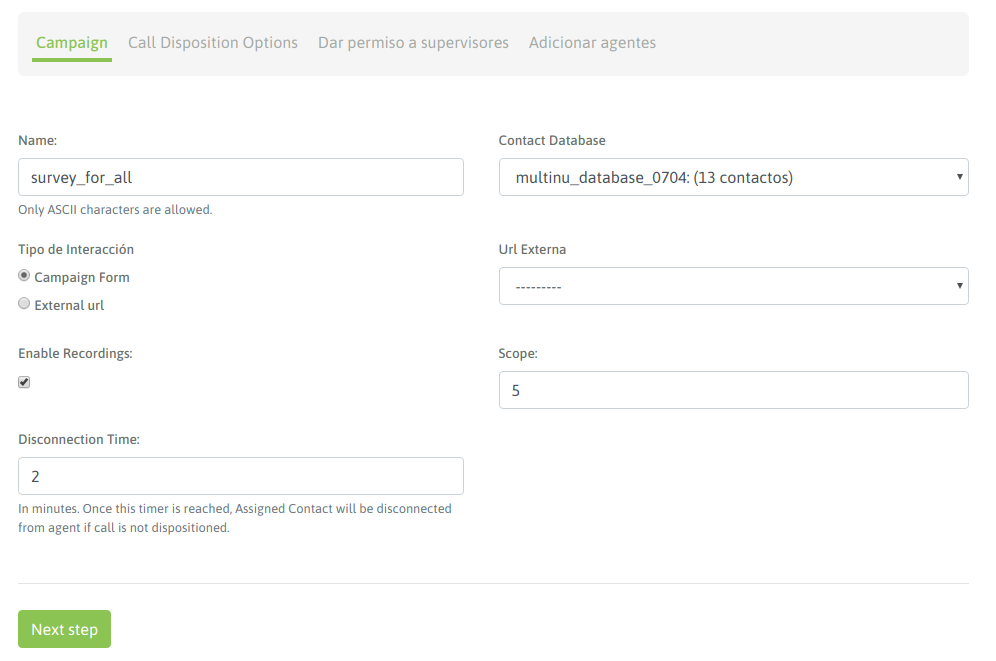
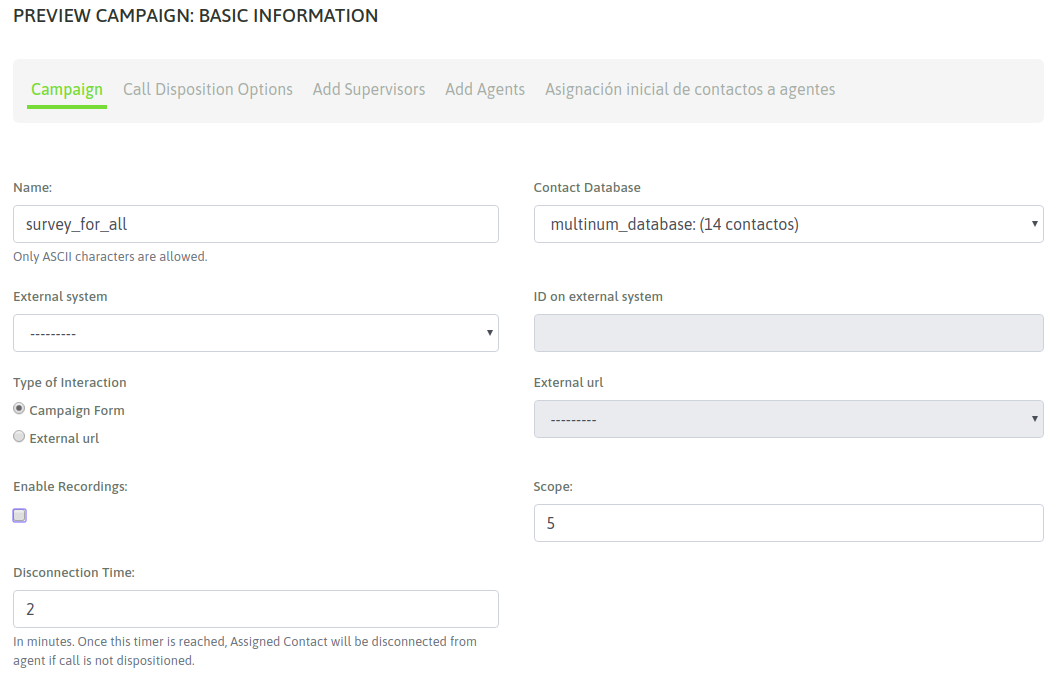
- actualiza tests campañanas preview - fix en el command, se usa ahora la instancia del logger, en vez del   modulo central importado - fix al crear el cronjob de cada campaña preview, se adicionan las   env_vars para todos los ambientes - fix warnings en todos los templates de las vistas q listan c

diff --git a/ominicontacto_app/templates/campanas/campana_preview/asignar_contactos.html b/ominicontacto_app/templates/campanas/campana_preview/asignar_contactos.html
@@ -1,0 +1,64 @@
+<!--
+Copyright (C) 2018 Freetech Solutions
+
+This file is part of OMniLeads
+
+This program is free software: you can redistribute it and/or modify
+it under the terms of the GNU General Public License as published by
+the Free Software Foundation, either version 3 of the License, or
+(at your option) any later version.
+
+This program is distributed in the hope that it will be useful,
+but WITHOUT ANY WARRANTY; without even the implied warranty of
+MERCHANTABILITY or FITNESS FOR A PARTICULAR PURPOSE.  See the
+GNU General Public License for more details.
+
+You should have received a copy of the GNU General Public License
+along with this program.  If not, see http://www.gnu.org/licenses/.
+
+-->
+{% extends "campanas/wizard_base.html" %}
+{% load i18n %}
+{% load static %}
+{% load widget_tweaks %}
+
+{% block extra_js %}
+    <script type="text/javascript" src="{% static 'ominicontacto/JS/campanas/campana_preview/asignacion_inicial_contactos.js' %}"></script>
+{% endblock %}
+
+{% block nav %}
+    <h1>{% trans 'Campaña Preview: Asignación de contactos'  %} </h1>
+    <ul class="nav nav-indicators">
+        <li class="disabled"><a>{% trans 'Campaña' %}</a></li>
+        <li class="disabled"><a>{% trans 'Cola' %}</a></li>
+        <li class="disabled"><a>{% trans 'Opciones de calificación' %}</a></li>
+        {% if interaccion_crm %}
+            <li class="disabled"><a>{% trans 'Interacción con Sitio Externo' %}</a></li>
+        {% endif %}
+        {% if create %}
+            <li class="disabled"><a>{% trans 'Dar permiso a supervisores' %}</a></li>
+            <li class="disabled"><a>{% trans 'Adicionar agentes' %}</a></li>
+        {% endif %}
+        <li class="active"><a>{% trans 'Asignación inicial de contactos a agentes' %}</a></li>
+    </ul>
+{% endblock %}
+
+{% block form_render %}
+    {% with form as form %}
+        {{ form.non_field_errors }}
+        <div class="form-row">
+            <div class="col-md-6">
+                <label for="{{ form.proporcionalmente.id_for_label }}">{% trans 'Proporcionalmente:' %}</label>
+                {{ form.proporcionalmente|attr:"id:selectProporcional" }}
+                {{ form.proporcionalmente.errors }}
+            </div>
+            <div class="col-md-6">
+                <div id="selectAleatorio" class="hidden">
+                    <label for="{{ form.aleatorio.id_for_label }}">{% trans 'En orden aleatorio:' %}</label>
+                    {{ form.aleatorio }}
+                    {{ form.aleatorio.errors }}
+                </div>
+            </div>
+        </div>
+    {% endwith %}
+{% endblock %}

diff --git a/ominicontacto_app/templates/campanas/campana_entrante/campana_list.html b/ominicontacto_app/templates/campanas/campana_entrante/campana_list.html
@@ -54,10 +54,10 @@ along with this program.  If not, see http://www.gnu.org/licenses/.
                 <td> {{campana.get_estado_display}}  </td>
                 <td width="14%">
                     <div class="dropdown">
-                        <button class="btn btn-light dropdown-toggle" type="button" id="dropdownCampaignActive" data-toggle="dropdown" aria-haspopup="true" aria-expanded="false">
+                        <button class="btn btn-light dropdown-toggle" type="button" id="dropdownCampaignActive{{campana.pk}}" data-toggle="dropdown" aria-haspopup="true" aria-expanded="false">
                         {% trans 'Opciones' %}
                         </button>
-                        <div class="dropdown-menu dropdown-menu-right" aria-labelledby="dropdownCampaignActive">
+                        <div class="dropdown-menu dropdown-menu-right" aria-labelledby="dropdownCampaignActive{{campana.pk}}">
                             <a class="dropdown-item" href="{% url 'queue_member_campana' campana.pk %}">
                                 <span class="icon icon-plus"></span>{% trans 'Agregar agentes' %}
                             </a>

diff --git a/ominicontacto_app/templates/campanas/campana_dialer/campana_list.html b/ominicontacto_app/templates/campanas/campana_dialer/campana_list.html
@@ -70,10 +70,10 @@ along with this program.  If not, see http://www.gnu.org/licenses/.
                 <td> {{campana.get_estado_display}}  </td>
                 <td width="14%">
                     <div class="dropdown">
-                        <button class="btn btn-light dropdown-toggle" type="button" id="dropdownCampaignActive" data-toggle="dropdown" aria-haspopup="true" aria-expanded="false">
+                        <button class="btn btn-light dropdown-toggle" type="button" id="dropdownCampaignActive{{campana.pk}}" data-toggle="dropdown" aria-haspopup="true" aria-expanded="false">
                         {% trans 'Opciones' %}
                         </button>
-                        <div class="dropdown-menu dropdown-menu-right" aria-labelledby="dropdownCampaignActive">
+                        <div class="dropdown-menu dropdown-menu-right" aria-labelledby="dropdownCampaignActive{{campana.pk}}">
                             <a class="dropdown-item" href="{% url 'campana_dialer_update' campana.pk %}">
                                 <span class="icon icon-pencil"></span>{% trans 'Editar' %}
                             </a>

diff --git a/ominicontacto_app/templates/campanas/campana_manual/campana_list.html b/ominicontacto_app/templates/campanas/campana_manual/campana_list.html
@@ -31,10 +31,10 @@ along with this program.  If not, see http://www.gnu.org/licenses/.
             <td> {{campana.get_estado_display}}  </td>
             <td width="14%">
                 <div class="dropdown">
-                    <button class="btn btn-light dropdown-toggle" type="button" id="dropdownCampaignActive" data-toggle="dropdown" aria-haspopup="true" aria-expanded="false">
+                    <button class="btn btn-light dropdown-toggle" type="button" id="dropdownCampaignActive{{campana.pk}}" data-toggle="dropdown" aria-haspopup="true" aria-expanded="false">
                     {% trans 'Opciones' %}
                     </button>
-                    <div class="dropdown-menu dropdown-menu-right" aria-labelledby="dropdownCampaignActive">
+                    <div class="dropdown-menu dropdown-menu-right" aria-labelledby="dropdownCampaignActive{{campana.pk}}">
                         <a class="dropdown-item" href="{% url 'queue_member_campana' campana.pk %}">
                             <span class="icon icon-plus"></span>{% trans 'Agregar agentes' %}
                         </a>

diff --git a/ominicontacto_app/templates/campanas/campana_preview/campana_list.html b/ominicontacto_app/templates/campanas/campana_preview/campana_list.html
@@ -43,10 +43,10 @@ along with this program.  If not, see http://www.gnu.org/licenses/.
             <td> {{campana.get_estado_display}}  </td>
             <td width="14%">
                 <div class="dropdown">
-                    <button class="btn btn-light dropdown-toggle" type="button" id="dropdownCampaignActive" data-toggle="dropdown" aria-haspopup="true" aria-expanded="false">
+                    <button class="btn btn-light dropdown-toggle" type="button" id="dropdownCampaignActive{{campana.pk}}" data-toggle="dropdown" aria-haspopup="true" aria-expanded="false">
                     {% trans 'Opciones'  %}
                     </button>
-                    <div class="dropdown-menu dropdown-menu-right" aria-labelledby="dropdownCampaignActive">
+                    <div class="dropdown-menu dropdown-menu-right" aria-labelledby="dropdownCampaignActive{{campana.pk}}">
                         <a class="dropdown-item" href="{% url 'campana_preview_update' campana.pk %}">
                             <span class="icon icon-pencil"></span>{% trans 'Modificar'  %}
                         </a>

diff --git a/ominicontacto_app/static/ominicontacto/JS/campanas/campana_preview/asignacion_inicial_contactos.js b/ominicontacto_app/static/ominicontacto/JS/campanas/campana_preview/asignacion_inicial_contactos.js
@@ -1,0 +1,25 @@
+/* Copyright (C) 2018 Freetech Solutions
+
+ This file is part of OMniLeads
+
+ This program is free software: you can redistribute it and/or modify
+ it under the terms of the GNU General Public License as published by
+ the Free Software Foundation, either version 3 of the License, or
+ (at your option) any later version.
+
+ This program is distributed in the hope that it will be useful,
+ but WITHOUT ANY WARRANTY; without even the implied warranty of
+ MERCHANTABILITY or FITNESS FOR A PARTICULAR PURPOSE.  See the
+ GNU General Public License for more details.
+
+ You should have received a copy of the GNU General Public License
+ along with this program.  If not, see http://www.gnu.org/licenses/.
+
+*/
+
+var $selectProporcional = $('#selectProporcional');
+var $selectAleatorio = $('#selectAleatorio');
+
+$selectProporcional.on('click', function () {
+    $selectAleatorio.toggle();
+});

diff --git a/ominicontacto_app/templates/campanas/campana_preview/opcion_calificacion.html b/ominicontacto_app/templates/campanas/campana_preview/opcion_calificacion.html
@@ -32,6 +32,9 @@ along with this program.  If not, see http://www.gnu.org/licenses/.
         {% if not es_template and create %}
             <li class="disabled"><a>{% trans 'Dar permiso a supervisores' %}</a></li>
             <li class="disabled"><a>{% trans 'Adicionar agentes' %}</a></li>
+            {% if create %}
+                <li class="disabled"><a>{% trans 'Asignación inicial de contactos a agentes' %}</a></li>
+            {% endif %}
         {% endif %}
     </ul>
 {% endblock %}

diff --git a/ominicontacto_app/templates/campanas/campana_preview/campana_preview.html b/ominicontacto_app/templates/campanas/campana_preview/campana_preview.html
@@ -37,6 +37,9 @@ along with this program.  If not, see http://www.gnu.org/licenses/.
         {% if not es_template and create %}
             <li class="disabled"><a>{% trans 'Dar permiso a supervisores' %}</a></li>
             <li class="disabled"><a>{% trans 'Adicionar agentes' %}</a></li>
+            {% if create %}
+                <li class="disabled"><a>{% trans 'Asignación inicial de contactos a agentes' %}</a></li>
+            {% endif %}
         {% endif %}
    </ul>
 {% endblock %}

diff --git a/ominicontacto_app/templates/campanas/campana_preview/parametros_crm_sitio_externo.html b/ominicontacto_app/templates/campanas/campana_preview/parametros_crm_sitio_externo.html
@@ -30,6 +30,7 @@ along with this program.  If not, see http://www.gnu.org/licenses/.
         {% if not es_template and create %}
             <li class="disabled"><a>{% trans 'Dar permiso a supervisores' %}</a></li>
             <li class="disabled"><a>{% trans 'Adicionar agentes' %}</a></li>
+            <li class="disabled"><a>{% trans 'Asignación inicial de contactos a agentes' %}</a></li>
         {% endif %}
     </ul>
 {% endblock %}

diff --git a/ominicontacto_app/templates/campanas/campana_preview/adicionar_agentes.html b/ominicontacto_app/templates/campanas/campana_preview/adicionar_agentes.html
@@ -32,7 +32,11 @@
         {% if not es_template %}
             <li class="disabled"><a>{% trans 'Dar permiso a supervisores' %}</a></li>
             <li class="active"><a>{% trans 'Adicionar agentes' %}</a></li>
+            {% if create %}
+                <li class="disabled"><a>{% trans 'Asignación inicial de contactos a agentes' %}</a></li>
+            {% endif %}
         {% endif %}
+
     </ul>
 {% endblock %}
 

diff --git a/ominicontacto_app/templates/campanas/campana_preview/adicionar_supervisores.html b/ominicontacto_app/templates/campanas/campana_preview/adicionar_supervisores.html
@@ -32,6 +32,9 @@
         {% if not es_template %}
             <li class="active"><a>{% trans 'Dar permiso a supervisores' %}</a></li>
             <li class="disabled"><a>{% trans 'Adicionar agentes' %}</a></li>
+            {% if create %}
+                <li class="disabled"><a>{% trans 'Asignación inicial de contactos a agentes' %}</a></li>
+            {% endif %}
         {% endif %}
     </ul>
 {% endblock %}

diff --git a/ominicontacto_app/tests/tests_campanas.py b/ominicontacto_app/tests/tests_campanas.py
@@ -438,7 +438,8 @@ class SupervisorCampanaTests(CampanasTests):
         url = reverse('campana_preview_create')
         nombre_campana = 'campana_preview_test'
         (post_step0_data, post_step1_data, post_step2_data, post_step3_data,
-         post_step4_data) = self._obtener_post_data_wizard_creacion_campana_preview(
+         post_step4_data,
+         post_step5_data) = self._obtener_post_data_wizard_creacion_campana_preview(
              nombre_campana)
         # realizamos la creación de la campaña mediante el wizard
         self.client.post(url, post_step0_data, follow=True)
@@ -446,6 +447,7 @@ class SupervisorCampanaTests(CampanasTests):
         # self.client.post(url, post_step2_data, follow=True)
         self.client.post(url, post_step3_data, follow=True)
         self.client.post(url, post_step4_data, follow=True)
+        self.client.post(url, post_step5_data, follow=True)
         self.assertTrue(Campana.objects.get(nombre=nombre_campana))
 
     @patch.object(ActivacionQueueService, "_generar_y_recargar_configuracion_asterisk")
@@ -546,7 +548,8 @@ class SupervisorCampanaTests(CampanasTests):
         url = reverse('campana_preview_create')
         nombre_campana = 'campana_preview_test'
         (post_step0_data, post_step1_data, post_step2_data, post_step3_data,
-         post_step4_data) = self._obtener_post_data_wizard_creacion_campana_preview(
+         post_step4_data,
+         post_step5_data) = self._obtener_post_data_wizard_creacion_campana_preview(
              nombre_campana)
         # realizamos la creación de la campaña mediante el wizard
         self.client.post(url, post_step0_data, follow=True)
@@ -554,13 +557,41 @@ class SupervisorCampanaTests(CampanasTests):
         # self.client.post(url, post_step2_data, follow=True)
         self.client.post(url, post_step3_data, follow=True)
         self.client.post(url, post_step4_data, follow=True)
+        self.client.post(url, post_step5_data, follow=True)
         self.assertTrue(AgenteEnContacto.objects.all().exists())
 
-    def test_usuario_no_logueado_no_obtiene_contacto_campana_preview(self):
-        self.client.logout()
-        url = reverse('campana_preview_dispatcher', args=[self.campana_activa.pk])
-        response = self.client.post(url, follow=True)
-        self.assertTemplateUsed(response, u'registration/login.html')
+    @patch.object(ActivacionQueueService, "_generar_y_recargar_configuracion_asterisk")
+    @patch.object(Campana, "crear_tarea_actualizacion")
+    @patch("ominicontacto_app.views_campana_creacion.obtener_sip_agentes_sesiones_activas")
+    @patch("ominicontacto_app.views_campana_creacion.adicionar_agente_cola")
+    def test_creacion_campana_preview_inicializa_relacion_agente_contacto_proporcionalmente(
+            self, adicionar_agente_cola, obtener_sip_agentes_sesiones_activas,
+            crear_tarea_actualizacion, _generar_y_recargar_configuracion_asterisk):
+        url = reverse('campana_preview_create')
+        contacto2 = ContactoFactory.create(bd_contacto=self.campana_activa.bd_contacto)
+        self.campana_activa.bd_contacto.contactos.add(contacto2)
+        agente_2 = self.crear_agente_profile()
+
+        nombre_campana = 'campana_preview_test'
+        (post_step0_data, post_step1_data, post_step2_data, post_step3_data,
+         post_step4_data,
+         post_step5_data) = self._obtener_post_data_wizard_creacion_campana_preview(
+             nombre_campana)
+        post_step4_data['4-TOTAL_FORMS'] = 2
+        post_step4_data['4-1-member'] = agente_2.pk
+        post_step4_data['4-1-penalty'] = 3
+        post_step5_data['5-proporcionalmente'] = True
+
+        # realizamos la creación de la campaña mediante el wizard
+        self.client.post(url, post_step0_data, follow=True)
+        self.client.post(url, post_step1_data, follow=True)
+        # self.client.post(url, post_step2_data, follow=True)
+        self.client.post(url, post_step3_data, follow=True)
+        self.client.post(url, post_step4_data, follow=True)
+        self.client.post(url, post_step5_data, follow=True)
+
+        self.assertEqual(list(AgenteEnContacto.objects.values_list('agente_id', flat=True)),
+                         [self.agente_profile.pk, agente_2.pk])
 
     def test_usuario_no_agente_no_obtiene_contacto_campana_preview(self):
         url = reverse('campana_preview_dispatcher', args=[self.campana_activa.pk])
@@ -649,7 +680,8 @@ class SupervisorCampanaTests(CampanasTests):
         url = reverse('campana_preview_create')
         nombre_campana = 'campana_preview_test'
         (post_step0_data, post_step1_data, post_step2_data, post_step3_data,
-         post_step4_data) = self._obtener_post_data_wizard_creacion_campana_preview(
+         post_step4_data,
+         post_step5_data) = self._obtener_post_data_wizard_creacion_campana_preview(
              nombre_campana)
         # realizamos la creación de la campaña mediante el wizard
         self.client.post(url, post_step0_data, follow=True)
@@ -657,6 +689,7 @@ class SupervisorCampanaTests(CampanasTests):
         # self.client.post(url, post_step2_data, follow=True)
         self.client.post(url, post_step3_data, follow=True)
         self.client.post(url, post_step4_data, follow=True)
+        self.client.post(url, post_step5_data, follow=True)
         self.assertTrue(crear_tarea_actualizacion.called)
 
     @patch.object(ActivacionQueueService, "_generar_y_recargar_configuracion_asterisk")
@@ -987,13 +1020,20 @@ class SupervisorCampanaTests(CampanasTests):
         post_step3_data['campana_preview_create_view-current_step'] = 3
         post_step4_data['campana_preview_create_view-current_step'] = 4
 
+        post_step5_data = {
+            '5-proporcionalmente': False,
+            '5-aleatorio': False,
+            'campana_preview_create_view-current_step': 5
+        }
+
         return (post_step0_data, post_step1_data, post_step2_data,
-                post_step3_data, post_step4_data)
+                post_step3_data, post_step4_data, post_step5_data)
 
     def _obtener_post_data_wizard_modificacion_campana_preview(self, nombre_campana):
         (post_step0_data, post_step1_data,
          post_step2_data, post_step3_data,
-         post_step4_data) = self._obtener_post_data_wizard_creacion_campana_preview(
+         post_step4_data,
+         post_step5_data) = self._obtener_post_data_wizard_creacion_campana_preview(
              nombre_campana)
         post_step0_data.pop('campana_preview_create_view-current_step')
         post_step1_data.pop('campana_preview_create_view-current_step')
@@ -1665,7 +1705,7 @@ class SupervisorCampanaTests(CampanasTests):
 
     def _obtener_post_data_wizard_creacion_template_campana_preview(self, nombre_campana):
         (post_step0_data, post_step1_data,
-         post_step2_data, __, __) = self._obtener_post_data_wizard_creacion_campana_preview(
+         post_step2_data, __, __, __) = self._obtener_post_data_wizard_creacion_campana_preview(
              nombre_campana)
         post_step0_data['campana_preview_template_create_view-current_step'] = 0
         post_step1_data['campana_preview_template_create_view-current_step'] = 1
@@ -1692,20 +1732,23 @@ class SupervisorCampanaTests(CampanasTests):
 
     def _obtener_post_data_wizard_creacion_campana_preview_desde_template(self, nombre_campana):
         (post_step0_data, post_step1_data, post_step2_data, post_step3_data,
-         post_step4_data) = self._obtener_post_data_wizard_creacion_campana_preview(
+         post_step4_data,
+         post_step5_data) = self._obtener_post_data_wizard_creacion_campana_preview(
              nombre_campana)
         post_step0_data['campana_preview_template_create_campana_view-current_step'] = 0
         post_step1_data['campana_preview_template_create_campana_view-current_step'] = 1
         post_step2_data['campana_preview_template_create_campana_view-current_step'] = 2
         post_step3_data['campana_preview_template_create_campana_view-current_step'] = 3
         post_step4_data['campana_preview_template_create_campana_view-current_step'] = 4
+        post_step5_data['campana_preview_template_create_campana_view-current_step'] = 5
         post_step0_data.pop('campana_preview_create_view-current_step')
         post_step1_data.pop('campana_preview_create_view-current_step')
         post_step2_data.pop('campana_preview_create_view-current_step')
         post_step3_data.pop('campana_preview_create_view-current_step')
         post_step4_data.pop('campana_preview_create_view-current_step')
+        post_step5_data.pop('campana_preview_create_view-current_step')
         return (post_step0_data, post_step1_data, post_step2_data, post_step3_data,
-                post_step4_data)
+                post_step4_data, post_step5_data)
 
     @patch.object(ActivacionQueueService, "_generar_y_recargar_configuracion_asterisk")
     @patch.object(Campana, "crear_tarea_actualizacion")
@@ -1724,7 +1767,8 @@ class SupervisorCampanaTests(CampanasTests):
         url = reverse('campana_preview_template_create_campana', args=[campana.pk])
         nombre_campana = 'campana_preview_clonada'
         (post_step0_data, post_step1_data, post_step2_data, post_step3_data,
-         post_step4_data) = self._obtener_post_data_wizard_creacion_campana_preview_desde_template(
+         post_step4_data,
+         post_step5_data) = self._obtener_post_data_wizard_creacion_campana_preview_desde_template(
              nombre_campana)
         post_step0_data['0-nombre'] = nombre_campana
         post_step1_data['1-0-nombre'] = opt_calif.nombre
@@ -1737,6 +1781,7 @@ class SupervisorCampanaTests(CampanasTests):
         # self.client.post(url, post_step2_data, follow=True)
         self.client.post(url, post_step3_data, follow=True)
         self.client.post(url, post_step4_data, follow=True)
+        self.client.post(url, post_step5_data, follow=True)
         campana_clonada = Campana.objects.get(nombre=nombre_campana)
         opt_calif_clonada_gestion = campana_clonada.opciones_calificacion.get(
             tipo=OpcionCalificacion.GESTION)
@@ -1902,7 +1947,8 @@ class SupervisorCampanaTests(CampanasTests):
         url = reverse('campana_preview_create')
         nombre_campana = 'campana_preview_test'
         (post_step0_data, post_step1_data, post_step2_data, post_step3_data,
-         post_step4_data) = self._obtener_post_data_wizard_creacion_campana_preview(
+         post_step4_data,
+         post_step5_data) = self._obtener_post_data_wizard_creacion_campana_preview(
              nombre_campana)
         post_step0_data['0-tipo_interaccion'] = Campana.SITIO_EXTERNO
         sitio_externo = SitioExternoFactory()
@@ -1915,7 +1961,8 @@ class SupervisorCampanaTests(CampanasTests):
         url = reverse('campana_preview_create')
         nombre_campana = 'campana_preview_test'
         (post_step0_data, post_step1_data, post_step2_data, post_step3_data,
-         post_step4_data) = self._obtener_post_data_wizard_creacion_campana_preview(
+         post_step4_data,
+         post_step5_data) = self._obtener_post_data_wizard_creacion_campana_preview(
              nombre_campana)
         self.client.post(url, post_step0_data, follow=True)
         post_step1_data['1-0-formulario'] = ''
